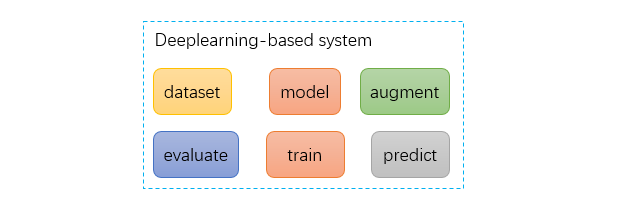
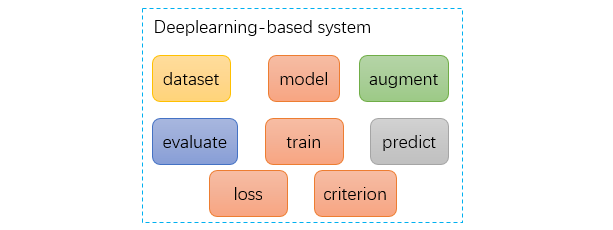
update

Changed region(s): [[0.217, 0.0849, 0.7749, 0.9906], [0.217, 0.0283, 0.7749, 0.0566]]

diff --git a/augmentation.py b/augmentation.py
@@ -110,9 +110,11 @@ class GenerateHeatmap(object):
             # use min(box_w, box_h)
             size = min(xmax-xmin, ymax-ymin)
             region = self.fn(size)
-            if ymax-ymin < xmax-xmin:
-                gt[ymin:ymax, ymin:ymax] = region
+            X = xmax - xmin
+            Y = ymax - ymin
+            if X > Y:
+                gt[ymin:ymax, xmin:xmin+Y] = region
             else: 
-                gt[xmin:xmax, xmin:xmax] = region
+                gt[ymin:ymin+X, xmin:xmax] = region
 
         return im, Image.fromarray(gt, mode='F')

diff --git a/README.md b/README.md
@@ -34,4 +34,12 @@ TODO
     - 如果basenet使用预训练模型，basenet部分的定义参照`torchvision.models`的定义方法，这样可以方便加载预训练模型。
 
 一个合理的写`model`的流程是：
+
 TODO
+
+# loss
+TODO
+
+# criterion
+TODO
+
